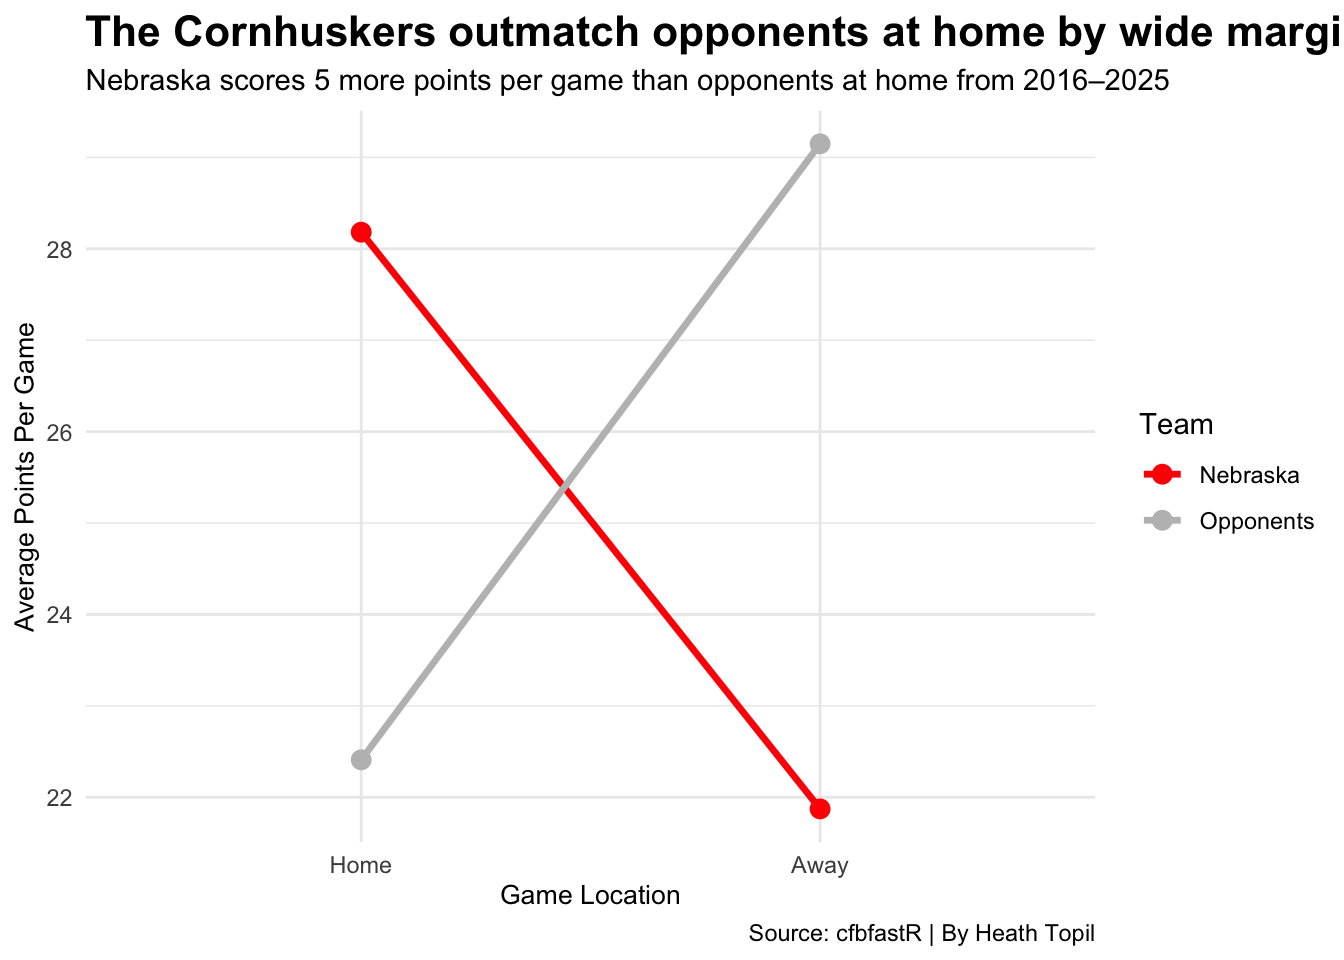
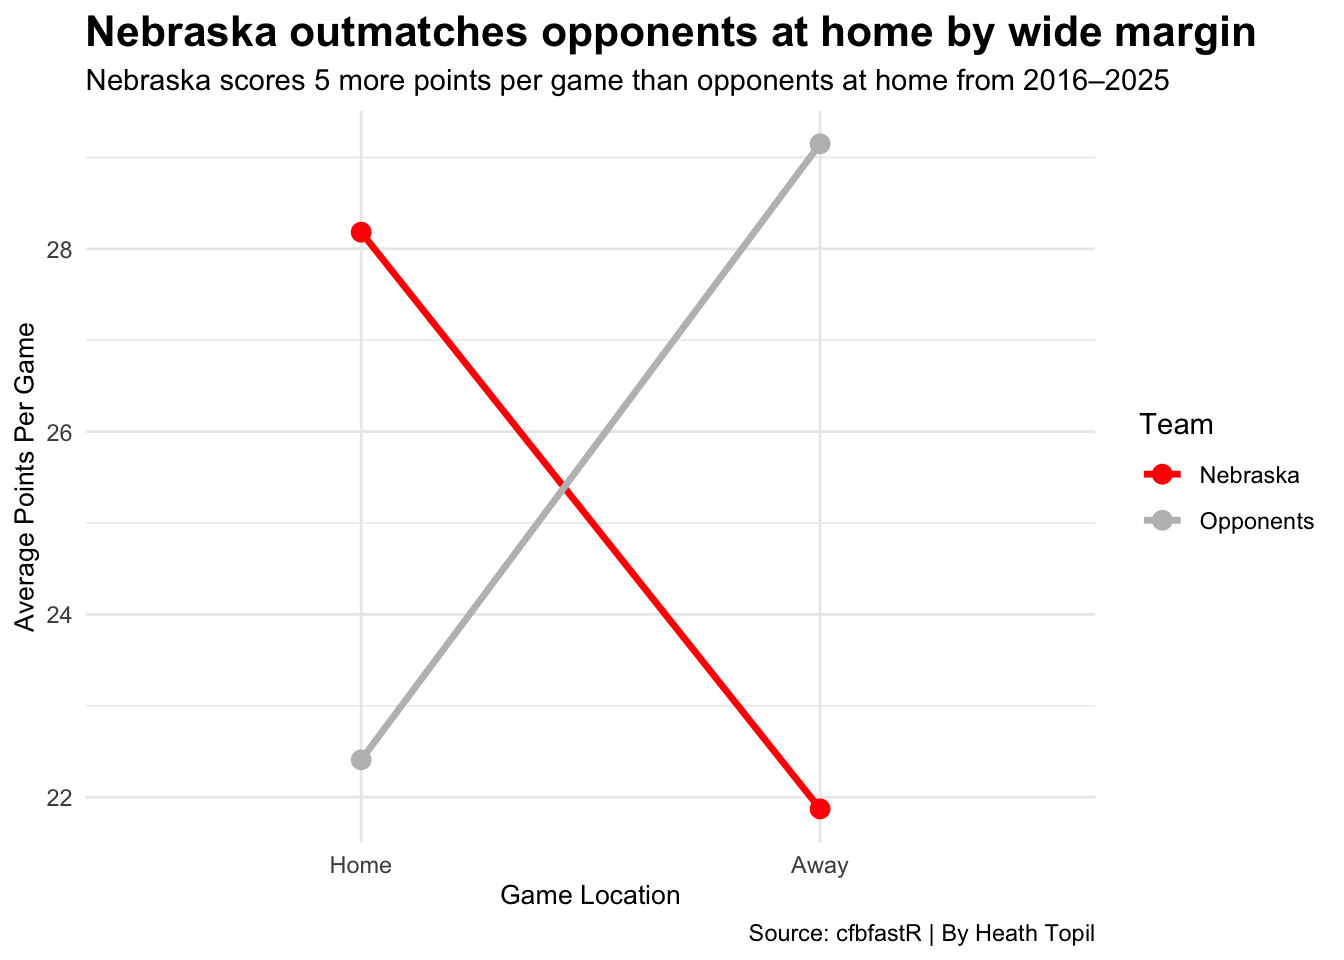
typo fix

Changed region(s): [[0.0625, 0.0, 1.0, 0.0625]]

diff --git a/posts/nebraska-homefield-advantage/index.html b/posts/nebraska-homefield-advantage/index.html
@@ -500,7 +500,7 @@ pre > code.sourceCode > span > a:first-child::before { text-decoration: underlin
 <span id="cb5-11"><a href="#cb5-11" aria-hidden="true" tabindex="-1"></a>    <span class="at">breaks =</span> <span class="dv">2016</span><span class="sc">:</span><span class="dv">2025</span></span>
 <span id="cb5-12"><a href="#cb5-12" aria-hidden="true" tabindex="-1"></a>  ) <span class="sc">+</span></span>
 <span id="cb5-13"><a href="#cb5-13" aria-hidden="true" tabindex="-1"></a>  <span class="fu">labs</span>(</span>
-<span id="cb5-14"><a href="#cb5-14" aria-hidden="true" tabindex="-1"></a>    <span class="at">title =</span> <span class="st">"Nebraska scores signficiantly more at home"</span>,</span>
+<span id="cb5-14"><a href="#cb5-14" aria-hidden="true" tabindex="-1"></a>    <span class="at">title =</span> <span class="st">"Nebraska scores significiantly more at home"</span>,</span>
 <span id="cb5-15"><a href="#cb5-15" aria-hidden="true" tabindex="-1"></a>    <span class="at">subtitle =</span> <span class="st">"Average points scored per game by season from 2016-2025"</span>,</span>
 <span id="cb5-16"><a href="#cb5-16" aria-hidden="true" tabindex="-1"></a>    <span class="at">x =</span> <span class="st">"Season"</span>,</span>
 <span id="cb5-17"><a href="#cb5-17" aria-hidden="true" tabindex="-1"></a>    <span class="at">y =</span> <span class="st">"Average Points Scored"</span>,</span>
@@ -563,7 +563,7 @@ pre > code.sourceCode > span > a:first-child::before { text-decoration: underlin
 <span id="cb7-8"><a href="#cb7-8" aria-hidden="true" tabindex="-1"></a>    )</span>
 <span id="cb7-9"><a href="#cb7-9" aria-hidden="true" tabindex="-1"></a>  ) <span class="sc">+</span></span>
 <span id="cb7-10"><a href="#cb7-10" aria-hidden="true" tabindex="-1"></a>  <span class="fu">labs</span>(</span>
-<span id="cb7-11"><a href="#cb7-11" aria-hidden="true" tabindex="-1"></a>    <span class="at">title =</span> <span class="st">"The Cornhuskers outmatch opponents at home by wide margin"</span>,</span>
+<span id="cb7-11"><a href="#cb7-11" aria-hidden="true" tabindex="-1"></a>    <span class="at">title =</span> <span class="st">"Nebraska outmatches opponents at home by wide margin"</span>,</span>
 <span id="cb7-12"><a href="#cb7-12" aria-hidden="true" tabindex="-1"></a>    <span class="at">subtitle =</span> <span class="st">"Nebraska scores 5 more points per game than opponents at home from 2016–2025"</span>,</span>
 <span id="cb7-13"><a href="#cb7-13" aria-hidden="true" tabindex="-1"></a>    <span class="at">x =</span> <span class="st">"Game Location"</span>,</span>
 <span id="cb7-14"><a href="#cb7-14" aria-hidden="true" tabindex="-1"></a>    <span class="at">y =</span> <span class="st">"Average Points Per Game"</span>,</span>

diff --git a/index.html b/index.html
@@ -379,7 +379,7 @@ window.Quarto = {
 
 <div class="quarto-listing quarto-listing-container-default" id="listing-listing">
 <div class="list quarto-listing-default">
-<div class="quarto-post image-right" data-index="0" data-listing-date-sort="1794549600000" data-listing-file-modified-sort="1794533768994" data-listing-date-modified-sort="NaN" data-listing-reading-time-sort="7" data-listing-word-count-sort="1344">
+<div class="quarto-post image-right" data-index="0" data-listing-date-sort="1794549600000" data-listing-file-modified-sort="1794959632479" data-listing-date-modified-sort="NaN" data-listing-reading-time-sort="7" data-listing-word-count-sort="1343">
 <div class="thumbnail"><a href="./posts/nebraska-homefield-advantage/index.html" class="no-external-icon">
 
 <img loading="lazy" src="./posts/nebraska-homefield-advantage/image.png" class="thumbnail-image">
